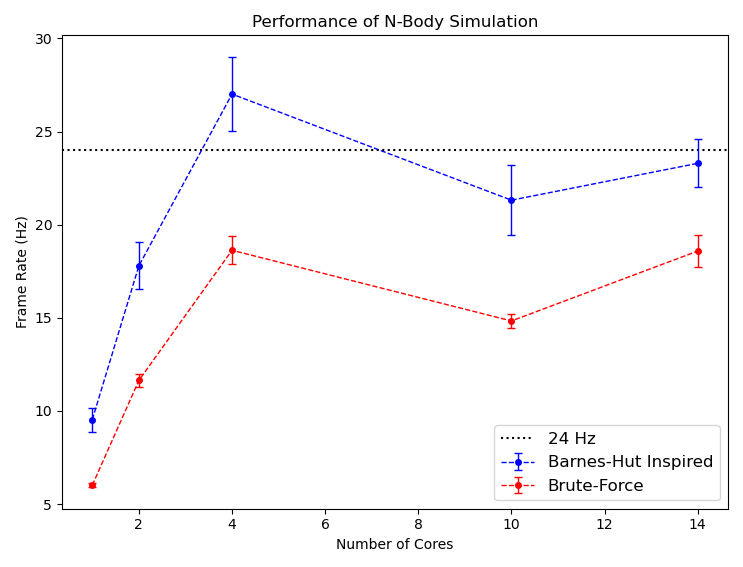
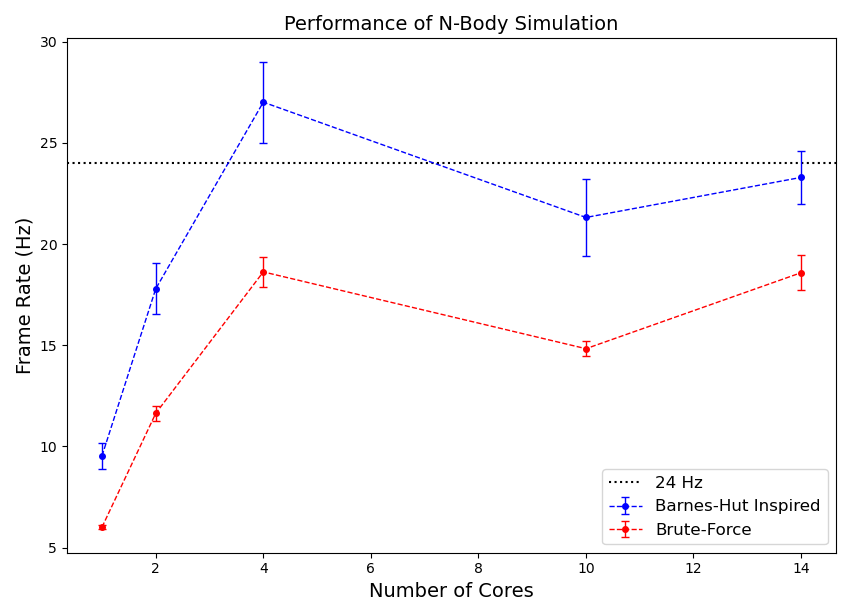
update plot

diff --git a/plot/plot.py b/plot/plot.py
@@ -41,9 +41,9 @@ def plotFrameRate(ax, data):
     caps2[0].set_markeredgewidth(1)
     caps2[1].set_markeredgewidth(1)
 
-    ax.set_xlabel('Number of Cores')
-    ax.set_ylabel('Frame Rate (Hz)')
-    ax.set_title('Performance of N-Body Simulation')
+    ax.set_xlabel('Number of Cores', fontsize=14)
+    ax.set_ylabel('Frame Rate (Hz)', fontsize=14)
+    ax.set_title('Performance of N-Body Simulation', fontsize=14)
     ax.legend(loc='lower right', prop={'size': 12})
 
 
